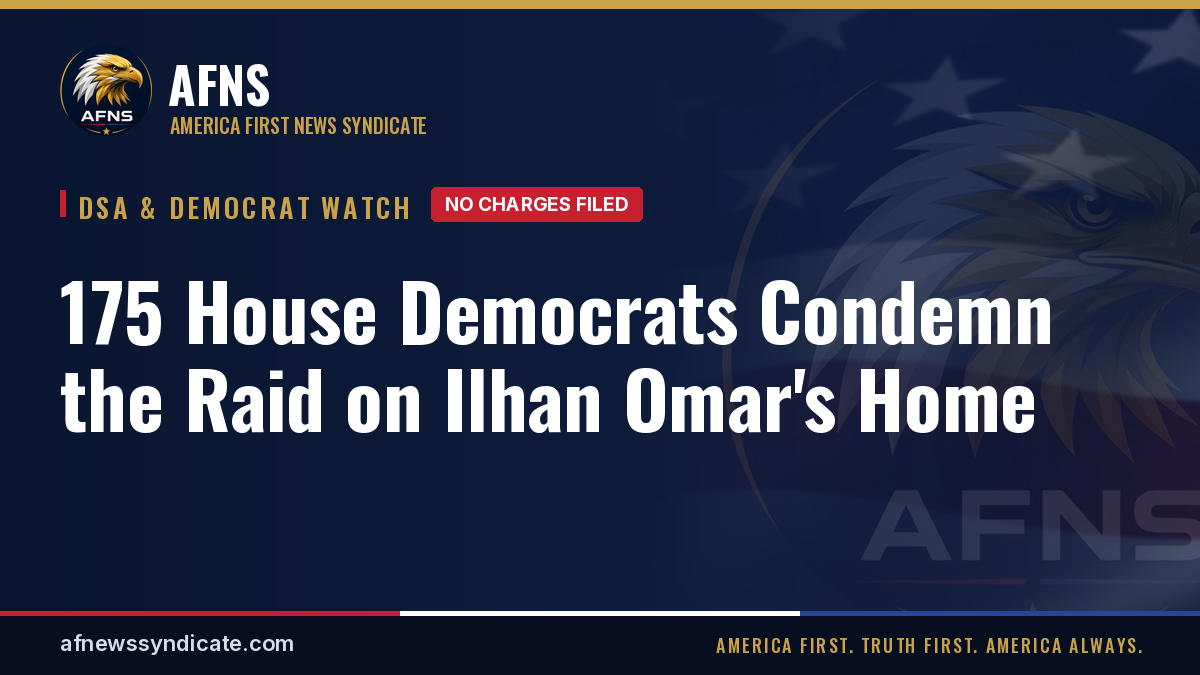
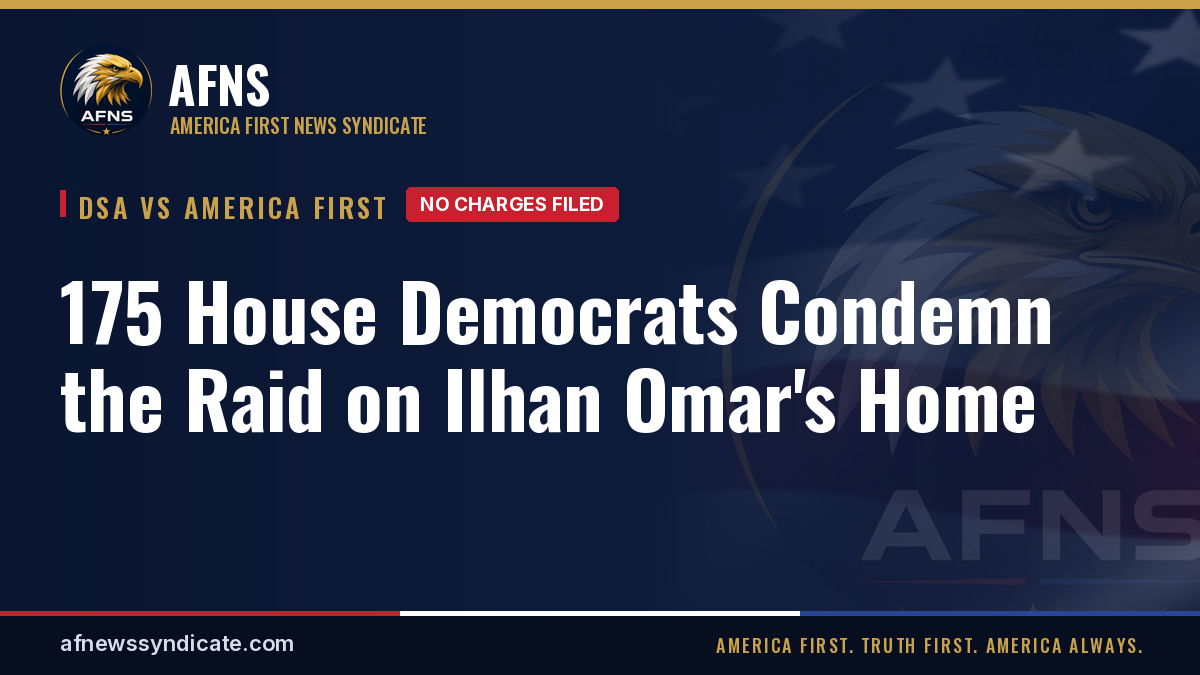
Add social links, a News Feed, and the flag hero (#61)
* Add X and Facebook profile links to every page.

The header bar and a footer Follow AFNS row read the accounts from site.json, and twitter:site plus Organization sameAs use the same URLs.

* Add a News Feed as the first item in the main navigation.

The page lists every story in one column, newest publish date first, and is regenerated on each build.

* Use the flag photo as the homepage hero background.

The banner is a compressed WebP with a JPEG fallback, covered and centered so the AFNS wordmark stays in frame.

* Rename the DSA desk label to DSA vs America First.

The displayed name changes in navigation, cards, titles, and share cards. Story URLs stay under /dsa-democrat-watch/.

---------

Changed region(s): [[0.1233, 0.28, 0.555, 0.3422]]

diff --git a/static/css/style.css b/static/css/style.css
@@ -19,10 +19,17 @@ a:hover{color:var(--red)}
 
 /* top bar + masthead */
 .topbar{background:#060e20;color:#c9cfdb;font-size:12.5px;letter-spacing:.04em}
-.topbar-inner{display:flex;justify-content:space-between;align-items:center;gap:16px;min-height:34px}
-.topbar-tag{font-family:var(--head);text-transform:uppercase;letter-spacing:.18em;color:var(--gold)}
-.topbar-x{display:inline-flex;align-items:center;gap:6px;color:#fff;text-decoration:none;font-weight:600}
-.topbar-x:hover{color:var(--gold)}
+.topbar-inner{display:grid;grid-template-columns:1fr auto 1fr;align-items:center;gap:12px;min-height:34px}
+.topbar-date{grid-column:1;justify-self:start}
+.topbar-tag{grid-column:2;justify-self:center;font-family:var(--head);text-transform:uppercase;letter-spacing:.18em;color:var(--gold)}
+.topbar-social{grid-column:3;justify-self:end}
+.social-links{display:flex;align-items:center;gap:8px;list-style:none;margin:0;padding:0}
+.social-links a{display:inline-flex;align-items:center;justify-content:center;gap:8px;width:28px;height:28px;border-radius:50%;color:#fff;text-decoration:none;border:1px solid rgba(201,162,74,.8);background:transparent;line-height:0}
+.social-links a:hover{color:var(--navy);background:var(--gold);border-color:var(--gold)}
+.social-links svg{width:14px;height:14px;display:block}
+.social-labeled{gap:10px}
+.social-labeled a{width:auto;height:34px;padding:0 13px 0 10px;border-radius:999px;font-weight:600;font-size:13.5px;letter-spacing:.03em;line-height:1}
+.social-labeled svg{width:15px;height:15px}
 .masthead{background:var(--navy);color:#fff;border-bottom:4px solid var(--red);position:sticky;top:0;z-index:50}
 .masthead-inner{display:flex;align-items:center;justify-content:space-between;padding-top:10px;padding-bottom:10px}
 .brand{display:flex;align-items:center;gap:14px;color:#fff;text-decoration:none}
@@ -42,8 +49,11 @@ a:hover{color:var(--red)}
 
 /* hero */
 .hero{background:var(--navy)}
-.hero-media{max-width:1400px;margin:0 auto;aspect-ratio:1168/560;overflow:hidden}
-.hero-media img{width:100%;height:100%;object-fit:cover;object-position:center 45%}
+/* Flag photo already includes the AFNS wordmark, so no title is painted on top of it. */
+.hero-media{max-width:1400px;margin:0 auto;aspect-ratio:2128/912;overflow:hidden;background-color:#0a1630;
+  background-image:url("../assets/hero-flag.jpg");
+  background-image:image-set(url("../assets/hero-flag.webp") type("image/webp"), url("../assets/hero-flag.jpg") type("image/jpeg"));
+  background-repeat:no-repeat;background-size:cover;background-position:center center}
 .hero-pillars{padding:0}
 .hero-pillars ul{list-style:none;margin:0;padding:14px 0;display:flex;justify-content:center;color:#dfe4ee;font-family:var(--head);text-transform:uppercase;letter-spacing:.1em;font-size:15px;text-align:center}
 .hero-pillars li{border-left:0;max-width:100%}
@@ -210,6 +220,9 @@ input:disabled,textarea:disabled{background:#eef0f4;cursor:not-allowed}
 .footer-links li{margin:6px 0}
 .footer-links a{color:#c9cfdb;text-decoration:none}
 .footer-links a:hover{color:var(--gold-2)}
+.footer-follow{border-top:1px solid rgba(255,255,255,.1)}
+.footer-follow-inner{display:flex;align-items:center;flex-wrap:wrap;gap:12px 18px;padding:16px 0}
+.footer-follow .footer-h{margin:0}
 .footer-bottom{border-top:1px solid rgba(255,255,255,.1);padding:14px 0;font-size:12.5px;color:#8792a8}
 
 /* responsive */
@@ -236,12 +249,11 @@ input:disabled,textarea:disabled{background:#eef0f4;cursor:not-allowed}
   .about-seal{position:static;max-width:260px;margin:0 auto}
   .footer-grid{grid-template-columns:1fr 1fr}
   .footer-brand{grid-column:1/-1}
-  .hero-media{aspect-ratio:1168/784}
+  .hero-media{background-position:center center}
 }
 @media (max-width:600px){
   body{font-size:15.5px}
   .topbar-date{display:none}
-  .topbar-inner{justify-content:flex-end}
   .wrap{padding:0 16px}
   .brand img{width:48px;height:48px}
   .brand-abbr{font-size:26px}
@@ -259,6 +271,10 @@ input:disabled,textarea:disabled{background:#eef0f4;cursor:not-allowed}
   .share{width:100%}.share .btn{flex:1}
   .footer-grid{grid-template-columns:1fr}
   .footer-brand{flex-direction:column;text-align:center}
+  .footer-follow-inner{justify-content:center}
+  .feed-thumb{flex-basis:92px}
+  .feed-item{gap:12px;padding:12px 0}
+  .feed-title{font-size:17.5px}
 }
 @media (prefers-reduced-motion:reduce){*{scroll-behavior:auto!important;transition:none!important}}
 .badge-status{display:inline-block;margin-left:8px;font-size:11px;font-weight:700;text-transform:uppercase;letter-spacing:.05em;background:var(--navy);color:var(--gold-2);border-radius:3px;padding:2px 7px;vertical-align:1px}
@@ -269,6 +285,22 @@ input:disabled,textarea:disabled{background:#eef0f4;cursor:not-allowed}
 .card-desk-lead .card-body::before{content:"Lead story";display:block;font:700 12px/1 Oswald,sans-serif;letter-spacing:.12em;text-transform:uppercase;color:var(--red,#b22234);margin-bottom:8px}
 .card-desk-lead .card-title{font-size:30px}
 .card-row .card-thumb{align-self:flex-start}
+
+/* news feed: one column, newest first */
+.feed-page{max-width:820px;padding-top:6px;padding-bottom:56px}
+.feed-day{margin-top:26px}
+.feed-day-h{font-family:var(--head);text-transform:uppercase;letter-spacing:.14em;font-size:13px;font-weight:600;color:var(--navy);margin:0;padding:10px 0 6px;border-bottom:2px solid var(--navy);position:relative}
+.feed-day-h::after{content:"";position:absolute;left:0;bottom:-2px;width:56px;height:2px;background:var(--red)}
+.feed-list{list-style:none;margin:0;padding:0}
+.feed-item{display:flex;gap:16px;align-items:flex-start;padding:14px 0;border-bottom:1px solid var(--line)}
+.feed-thumb{flex:0 0 132px;aspect-ratio:16/9;overflow:hidden;border-radius:var(--r);background:var(--navy)}
+.feed-thumb img{width:100%;height:100%;object-fit:cover}
+.feed-copy{min-width:0;flex:1;padding-top:1px}
+.feed-kicker{display:flex;flex-wrap:wrap;align-items:baseline;gap:6px 12px;margin:0 0 4px}
+.feed-kicker time{font-size:12.5px;color:var(--muted)}
+.feed-title{font-family:var(--serif);font-weight:600;font-size:20px;line-height:1.28;margin:0}
+.feed-title a{color:var(--ink);text-decoration:none}
+.feed-title a:hover{color:var(--navy-3);text-decoration:underline;text-decoration-color:var(--gold);text-underline-offset:3px}
 /* photo credit under article hero image */
 .article-hero .photo-credit{margin-top:6px;font-size:.75rem;line-height:1.4;color:#5b6475;text-align:right}
 .article-hero .photo-credit a{color:inherit;text-decoration:underline;text-decoration-color:rgba(91,100,117,.4)}

diff --git a/build.py b/build.py
@@ -153,8 +153,47 @@ def fmt_date(d):
 
 # ---------------------------------------------------------------- layout
 X_ICON = '<svg viewBox="0 0 24 24" aria-hidden="true" width="18" height="18"><path fill="currentColor" d="M18.244 2.25h3.308l-7.227 8.26 8.502 11.24H16.17l-5.214-6.817L4.99 21.75H1.68l7.73-8.835L1.254 2.25H8.08l4.713 6.231zm-1.161 17.52h1.833L7.084 4.126H5.117z"/></svg>'
+# Facebook "f" (Simple Icons path). Color comes from currentColor so the buttons stay on the navy/gold/white brand.
+FB_ICON = '<svg viewBox="0 0 24 24" aria-hidden="true" width="18" height="18"><path fill="currentColor" d="M9.101 23.691v-7.98H6.627v-3.667h2.474v-1.58c0-4.085 1.848-5.978 5.858-5.978.401 0 .955.042 1.468.103a8.68 8.68 0 0 1 1.141.195v3.325a8.623 8.623 0 0 0-.653-.036 2.504 2.504 0 0 0-1.837.565c-.476.45-.737 1.121-.737 1.99v1.417h3.718l-.64 3.667h-3.078v8.02a11.98 11.98 0 0 1-5.24-.041Z"/></svg>'
 
-def layout(title, body, *, desc=None, canonical="", og_type="website", active="", og_image=None, og_alt=None):
+def social_profiles():
+    """Official profiles. URLs live in site.json; templates only call this."""
+    profiles = []
+    x_url = (CFG.get("x_url") or "").strip()
+    if x_url:
+        handle = (CFG.get("x_handle") or "").strip()
+        label = f"Follow AFNS on X ({handle})" if handle else "Follow AFNS on X"
+        profiles.append({"id": "x", "name": "X", "url": x_url, "handle": handle, "label": label})
+    facebook_url = (CFG.get("facebook_url") or "").strip()
+    if facebook_url:
+        profiles.append({"id": "facebook", "name": "Facebook", "url": facebook_url, "handle": "", "text": "AFNS", "label": "Follow AFNS on Facebook"})
+    return profiles
+
+def social_same_as():
+    return [p["url"] for p in social_profiles()]
+
+def social_links(*, labeled=False):
+    cls = "social-links social-labeled" if labeled else "social-links"
+    items = []
+    for p in social_profiles():
+        icon = FB_ICON if p["id"] == "facebook" else X_ICON
+        text = f"<span>{esc(p['name'])}</span>" if labeled else ""
+        items.append(
+            f'<li><a href="{esc(p["url"])}" rel="noopener noreferrer" target="_blank" aria-label="{esc(p["label"])}">{icon}{text}</a></li>'
+        )
+    return f'<ul class="{cls}">{"".join(items)}</ul>'
+
+def social_nav(*, labeled=False, nav_class="", labelledby=""):
+    if not social_profiles():
+        return ""
+    if labelledby:
+        attrs = f' aria-labelledby="{esc(labelledby)}"'
+    else:
+        attrs = ' aria-label="Follow AFNS"'
+    cls = f' class="{nav_class}"' if nav_class else ""
+    return f"<nav{cls}{attrs}>{social_links(labeled=labeled)}</nav>"
+
+def layout(title, body, *, desc=None, canonical="", og_type="website", active="", og_image=None, og_alt=None, extra_head=""):
     full_title = f"{title} | {CFG['short_name']}" if title else f"{CFG['name']} — {CFG['tagline']}"
     desc = desc or CFG["description"]
     canon = site_url(canonical)
@@ -167,7 +206,11 @@ def layout(title, body, *, desc=None, canonical="", og_type="website", active=""
         f'<li><a href="{site_href(d["slug"] + "/")}"{" aria-current=\"page\"" if active == d["slug"] else ""}>{esc(d["name"])}</a></li>'
         for d in CFG["desks"])
     today = datetime.date.today().strftime("%A, %B %-d, %Y")
-    xph = ' data-placeholder="true"' if CFG.get("x_is_placeholder") else ""
+    org_ld = json.dumps({
+        "@context": "https://schema.org", "@type": "Organization", "name": CFG["name"],
+        "url": site_url(), "logo": site_url("assets/logo-512.png"),
+        **({"sameAs": social_same_as()} if social_same_as() else {}),
+    }, ensure_ascii=False)
     return f"""<!doctype html>
 <html lang="en">
 <head>
@@ -200,14 +243,16 @@ def layout(title, body, *, desc=None, canonical="", og_type="website", active=""
 <link rel="preconnect" href="https://fonts.gstatic.com" crossorigin>
 <link rel="stylesheet" href="https://fonts.googleapis.com/css2?family=Oswald:wght@500;600;700&family=Source+Serif+4:ital,opsz,wght@0,8..60,400;0,8..60,600;1,8..60,400&family=Inter:wght@400;500;600;700&display=swap">
 <link rel="stylesheet" href="{site_href('css/style.css')}">
+{extra_head}
 <script src="{site_href('js/site.js')}" defer></script>
+<script type="application/ld+json">{org_ld}</script>
 </head>
 <body>
 <a class="skip-link" href="#main">Skip to content</a>
 <div class="topbar"><div class="wrap topbar-inner">
   <span class="topbar-date">{today}</span>
   <span class="topbar-tag">{esc(CFG['tagline'])}</span>
-  <a class="topbar-x" href="{esc(CFG['x_url'])}" rel="noopener" target="_blank"{xph}>{X_ICON}<span>Follow {esc(CFG['x_handle'])}</span></a>
+  {social_nav(nav_class="topbar-social")}
 </div></div>
 <header class="masthead">
   <div class="wrap masthead-inner">
@@ -218,6 +263,7 @@ def layout(title, body, *, desc=None, canonical="", og_type="website", active=""
     <button class="nav-toggle" aria-expanded="false" aria-controls="site-nav"><span class="sr-only">Menu</span><span class="bars" aria-hidden="true"></span></button>
   </div>
   <nav id="site-nav" class="site-nav" aria-label="Sections"><div class="wrap"><ul>
+    <li><a href="{site_href('news-feed/')}"{' aria-current="page"' if active == 'news-feed' else ''}>News Feed</a></li>
     <li><a href="{site_href()}"{' aria-current="page"' if active == 'home' else ''}>Home</a></li>{nav}
     <li class="nav-secondary"><a href="{site_href('about/')}"{' aria-current="page"' if active == 'about' else ''}>About</a></li>
   </ul></div></nav>
@@ -237,9 +283,12 @@ def layout(title, body, *, desc=None, canonical="", og_type="website", active=""
       <li><a href="{site_href('standards/')}">Sources &amp; Corrections</a></li>
       <li><a href="{site_href('contact/')}">Contact</a></li>
       <li><a href="{site_href('feed.xml')}">RSS Feed</a></li>
-      <li><a href="{esc(CFG['x_url'])}" rel="noopener" target="_blank"{xph}>X / {esc(CFG['x_handle'])}</a></li>
     </ul></div>
   </div>
+  <div class="footer-follow"><div class="wrap footer-follow-inner">
+    <h2 class="footer-h" id="footer-follow">Follow AFNS</h2>
+    {social_nav(labeled=True, labelledby="footer-follow")}
+  </div></div>
   <div class="footer-bottom"><div class="wrap">&copy; {datetime.date.today().year} {esc(CFG['name'])}. America First. Truth First. America Always.</div></div>
 </footer>
 </body>
@@ -275,7 +324,7 @@ def x_callout():
   <div class="x-icon">{X_ICON.replace('width="18" height="18"', 'width="44" height="44"')}</div>
   <div class="x-copy"><h2 id="x-h">Follow AFNS on X</h2>
   <p>Get every new research report, court ruling breakdown, and desk update as it publishes.</p>{ph}</div>
-  <a class="btn btn-gold" href="{esc(CFG['x_url'])}" rel="noopener" target="_blank">Follow {esc(CFG['x_handle'])}</a>
+  <a class="btn btn-gold" href="{esc(CFG['x_url'])}" rel="noopener noreferrer" target="_blank">Follow {esc(CFG['x_handle'])}</a>
 </div></section>"""
 
 def signup():
@@ -300,12 +349,65 @@ def write(rel, content):
     p.parent.mkdir(parents=True, exist_ok=True)
     p.write_text(content, encoding="utf-8")
 
+def feed_day_label(day, today):
+    """Today and Yesterday when they apply; otherwise the weekday and date."""
+    if day == today:
+        return "Today"
+    if day == today - datetime.timedelta(days=1):
+        return "Yesterday"
+    if day.year == today.year:
+        return day.strftime("%A, %B %-d")
+    return day.strftime("%A, %B %-d, %Y")
+
+def build_news_feed(arts):
+    """One column, newest publish date first. Rebuilt from the article list on every run."""
+    # Priority is the same-day tie the rest of the site already uses. Slug only
+    # splits an exact tie so one day does not clump into desk blocks.
+    ordered = sorted(arts, key=lambda a: (-a["date"].toordinal(), -a["priority"], a["slug"]))
+    today = datetime.date.today()
+    sections, day, bucket = [], None, []
+
+    def flush():
+        if day is None:
+            return
+        rows = []
+        for a in bucket:
+            d = DESKS[a["desk"]]
+            thumb = ""
+            if a["image"]:
+                thumb = (f'<a class="feed-thumb" href="{site_href(url_of(a))}" tabindex="-1" aria-hidden="true">'
+                         f'<img src="{esc(site_href(a["image"]))}" alt="" width="160" height="90" loading="lazy"></a>')
+            rows.append(f"""<li class="feed-item">{thumb}<div class="feed-copy">
+  <p class="feed-kicker"><a class="desk-tag" href="{site_href(a['desk'] + '/')}">{esc(d['name'])}</a>
+  <time datetime="{a['date'].isoformat()}">{fmt_date(a['date'])}</time></p>
+  <h3 class="feed-title"><a href="{site_href(url_of(a))}">{esc(a['title'])}</a></h3>
+</div></li>""")
+        sections.append(f"""<section class="feed-day" aria-labelledby="feed-{day.isoformat()}">
+  <h2 class="feed-day-h" id="feed-{day.isoformat()}">{esc(feed_day_label(day, today))}</h2>
+  <ol class="feed-list">{''.join(rows)}</ol>
+</section>""")
+
+    for a in ordered:
+        if a["date"] != day:
+            flush()
+            day, bucket = a["date"], []
+        bucket.append(a)
+    flush()
+    empty = '<p class="empty">New research is coming soon.</p>' if not sections else ""
+    body = f"""<header class="page-head"><div class="wrap">
+  <p class="kicker">AFNS</p><h1>News Feed</h1>
+  <p class="lede">The latest from every desk, newest first.</p></div></header>
+<div class="wrap feed-page">{empty}{''.join(sections)}</div>"""
+    write("news-feed/index.html", layout(
+        "News Feed", body, desc="The latest AFNS stories from every desk, newest first.",
+        canonical="news-feed/", active="news-feed"))
+
 def build_home(arts):
     lead = next((a for a in arts if a["featured"]), arts[0] if arts else None)
     # Newest featured story is the lead. Other featured stories head the side list.
     rest = [a for a in arts if a is not lead and a["featured"]] + [a for a in arts if a is not lead and not a["featured"]]
     hero = f"""<section class="hero" aria-label="America First News Syndicate">
-  <div class="hero-media"><img src="{site_href('assets/hero-banner.jpg')}" alt="AFNS — America First News Syndicate. America First. Truth First. America Always." width="1168" height="784" fetchpriority="high"></div>
+  <div class="hero-media" role="img" aria-label="AFNS — America First News Syndicate"></div>
   <div class="hero-pillars wrap"><ul>
     <li><strong>Fact-Based.</strong> Fearless. America First.</li>
   </ul></div>
@@ -328,7 +430,8 @@ def build_home(arts):
   <div class="desk-list">{items}</div>
 </section>""")
     body = hero + top + x_callout() + f'<div class="wrap desks-grid">{"".join(desks)}</div>' + signup()
-    write("index.html", layout("", body, active="home"))
+    preload = f'<link rel="preload" as="image" type="image/webp" href="{site_href("assets/hero-flag.webp")}" fetchpriority="high">'
+    write("index.html", layout("", body, active="home", extra_head=preload))
 
 def build_desks(arts):
     for d in CFG["desks"]:
@@ -348,7 +451,7 @@ def sidebar(arts, exclude_desk=None, exclude=None):
     lis = "".join(f'<li><a href="{site_href(url_of(a))}"><span class="desk-tag-sm">{esc(DESKS[a["desk"]]["name"])}</span>{esc(a["title"])}</a></li>' for a in others)
     return f"""<div class="side-box"><h2 class="side-h">Across the Desks</h2><ol class="side-list">{lis}</ol></div>
 <div class="side-box side-x"><h2 class="side-h">Follow AFNS</h2><p>New research posts to X first.</p>
-<a class="btn btn-gold btn-block" href="{esc(CFG['x_url'])}" rel="noopener" target="_blank">{X_ICON} Follow {esc(CFG['x_handle'])}</a></div>"""
+<a class="btn btn-gold btn-block" href="{esc(CFG['x_url'])}" rel="noopener noreferrer" target="_blank">{X_ICON} Follow {esc(CFG['x_handle'])}</a></div>"""
 
 def build_articles(arts):
     for a in arts:
@@ -382,10 +485,12 @@ def build_articles(arts):
         related = [x for x in arts if x["desk"] == a["desk"] and x is not a][:3]
         rel_html = f'<section class="wrap related">{section_head("More from " + esc(d["name"]), site_href(a["desk"] + "/"), "All")}<div class="grid-3">{"".join(card(x) for x in related)}</div></section>' if related else ""
         share_image = a["image"] or og or "assets/og-image.jpg"
+        publisher = {"@type": "Organization", "name": CFG["name"], "logo": {"@type": "ImageObject", "url": site_url("assets/logo-512.png")}}
+        if social_same_as():
+            publisher["sameAs"] = social_same_as()
         ld = json.dumps({"@context": "https://schema.org", "@type": "NewsArticle", "headline": a["title"],
                          "datePublished": a["date"].isoformat(), "author": {"@type": "Organization", "name": a["byline"]},
-                         "image": site_url(share_image),
-                         "publisher": {"@type": "Organization", "name": CFG["name"], "logo": {"@type": "ImageObject", "url": site_url("assets/logo-512.png")}},
+                         "image": site_url(share_image), "publisher": publisher,
                          "articleSection": d["name"], "description": a["summary"], "mainEntityOfPage": canon})
         body = f"""<div class="wrap article-layout">
 <article class="article">
@@ -449,7 +554,7 @@ def build_static():
 <p class="lede">Tips, corrections, and questions are welcome.</p>
 <p><strong>Corrections:</strong> include the article link and the source showing the error.<br><strong>Tips:</strong> documents and primary sources help us move fastest.</p>
 <p><strong>Email:</strong> <span class="placeholder-text">{esc(CFG['contact_email'])}</span> <em>(placeholder, not monitored yet)</em></p>
-<p><strong>X:</strong> <a href="{esc(CFG['x_url'])}" rel="noopener" target="_blank">{esc(CFG['x_handle'])}</a></p>
+{"".join(f'<p><strong>{esc(p["name"])}:</strong> <a href="{esc(p["url"])}" rel="noopener noreferrer" target="_blank" aria-label="{esc(p["label"])}">{esc(p["handle"] or p.get("text") or p["name"])}</a></p>' for p in social_profiles())}
 </div>
 <form class="contact-form" onsubmit="return false" aria-describedby="contact-note">
   <p class="kicker">Contact form · Coming soon</p>
@@ -469,7 +574,7 @@ def build_feeds(arts):
 <category>{esc(DESKS[a['desk']]['name'])}</category><description>{esc(a['summary'])}</description></item>""" for a in arts[:50])
     write("feed.xml", f"""<?xml version="1.0" encoding="UTF-8"?><rss version="2.0"><channel><title>{esc(CFG['name'])}</title>
 <link>{site_url()}</link><description>{esc(CFG['description'])}</description><language>en-us</language>{items}</channel></rss>""")
-    urls = [""] + [f"{d['slug']}/" for d in CFG["desks"]] + ["about/", "standards/", "contact/"] + [url_of(a) for a in arts]
+    urls = ["", "news-feed/"] + [f"{d['slug']}/" for d in CFG["desks"]] + ["about/", "standards/", "contact/"] + [url_of(a) for a in arts]
     write("sitemap.xml", '<?xml version="1.0" encoding="UTF-8"?><urlset xmlns="http://www.sitemaps.org/schemas/sitemap/0.9">'
           + "".join(f"<url><loc>{site_url(u)}</loc></url>" for u in urls) + "</urlset>")
     write("robots.txt", f"User-agent: *\nAllow: /\nSitemap: {site_url('sitemap.xml')}\n")
@@ -522,7 +627,7 @@ def main():
     build_og_cards(arts)
     shutil.copytree(ASSETS, DIST / "assets")
     shutil.copytree(STATIC, DIST, dirs_exist_ok=True)
-    build_home(arts); build_desks(arts); build_articles(arts); build_static(); build_feeds(arts)
+    build_home(arts); build_news_feed(arts); build_desks(arts); build_articles(arts); build_static(); build_feeds(arts)
     print(f"Built {len(arts)} articles across {len(DESKS)} desks -> {DIST} ({site_url()})")
     if "--serve" in sys.argv:
         import functools, http.server, tempfile

diff --git a/README.md b/README.md
@@ -22,12 +22,13 @@ python3 build.py --serve    # builds and serves at http://localhost:8000/
 3. Write the body in Markdown below the front matter (`##` headings, `-` bullets, `**bold**`, `*italic*`, `[links](url)`, `> quotes`).
 4. Run `python3 build.py` to preview. Pushing `main` publishes the site (see Publishing). Do not commit `dist/`.
 
-Newest articles show first. The home page, desk pages, RSS feed (`feed.xml`) and `sitemap.xml` update automatically.
+Newest articles show first. The home page, the News Feed (`/news-feed/`), desk pages, RSS feed (`feed.xml`) and `sitemap.xml` update automatically. The News Feed is one list of every story, newest publish date first, and it is the first item in the main navigation.
 
 **Before launch:** delete the sample articles (every file with `sample: true`, all titled "Sample: ...").
 
 ## Configuration (one spot): `site.json`
-- `x_handle` / `x_url`: the AFNS X account. Currently placeholders (`@AFNS_placeholder`, `https://x.com/`). Set the real handle, the URL `https://x.com/<handle>`, and `"x_is_placeholder": false`, then rebuild.
+- `x_handle` / `x_url`: the AFNS X account. Currently `@afnewssyndicate` and `https://x.com/afnewssyndicate`, with `"x_is_placeholder": false`. Header and footer icons, `twitter:site`, and Organization `sameAs` read these values.
+- `facebook_url`: the AFNS Facebook page. Header icons and the footer "Follow AFNS" row are built from `x_url` and `facebook_url`.
 - `base_url`: the public site URL, path included. Currently `https://afnewssyndicate.com` (served at `/`; `www.afnewssyndicate.com` is the alternate host). The generator uses that value for every internal link, stylesheet, script, image, favicon, canonical URL, Open Graph URL, RSS item, sitemap entry, and the `CNAME` file. A root-relative Markdown link such as `[courts](/courts/)` is prefixed with the `base_url` path the same way. A project-site URL such as `https://user.github.io/repo` would serve the site under `/repo/` instead.
 - `contact_email`: placeholder; shown on the contact page.
 - `desks`: desk names, slugs, and blurbs. Adding a desk here and a matching `content/<slug>/` folder creates a new section.
@@ -35,7 +36,7 @@ Newest articles show first. The home page, desk pages, RSS feed (`feed.xml`) and
 ## Layout
 ```
 build.py          generator
-site.json         site config (X handle, domain, desks)
+site.json         site config (social accounts, domain, desks)
 content/          Markdown articles, one folder per desk
 assets/           logos, favicon, hero banner, og image (copied to dist/assets)
 static/css, js    stylesheet and small JS (mobile menu, copy link)
@@ -69,4 +70,4 @@ The PNGs are committed, so a build still publishes them when Pillow is not insta
 
 ## Not live yet (placeholders)
 - Newsletter sign-up and contact form are disabled and marked "Coming soon". No backend, no data collected.
-- X account link and contact email are placeholders in `site.json`.
+- Contact email is a placeholder in `site.json`.
